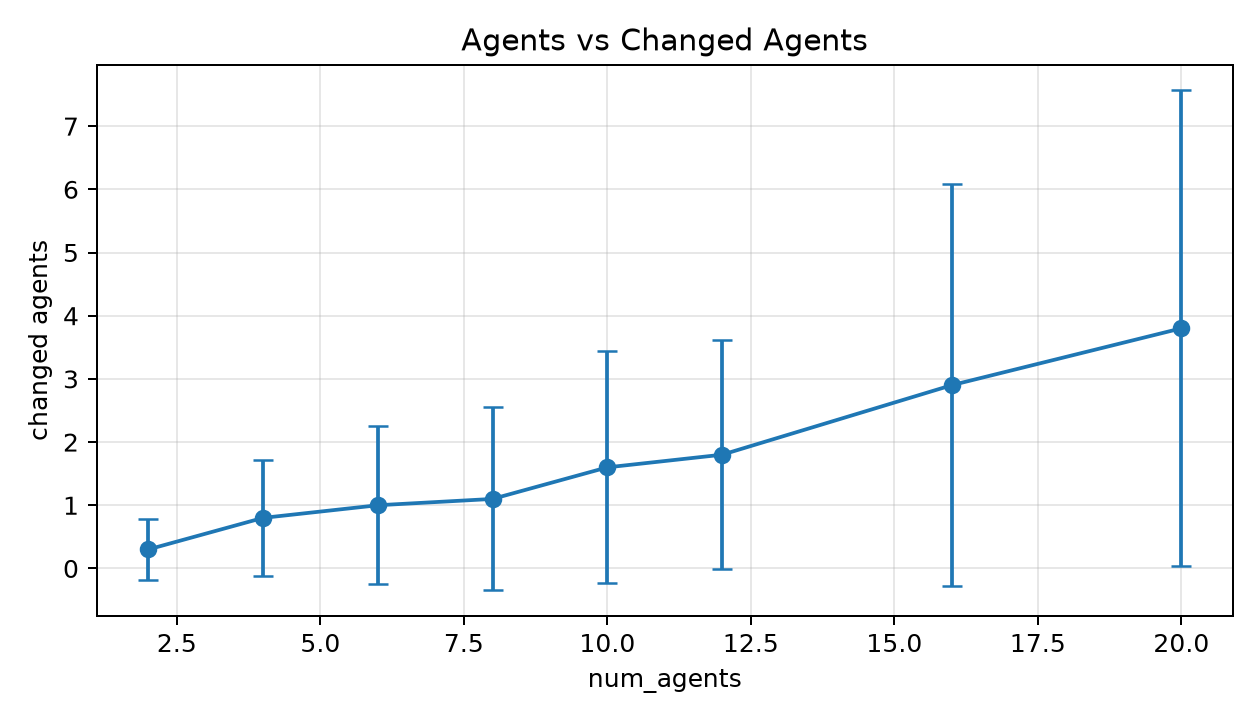
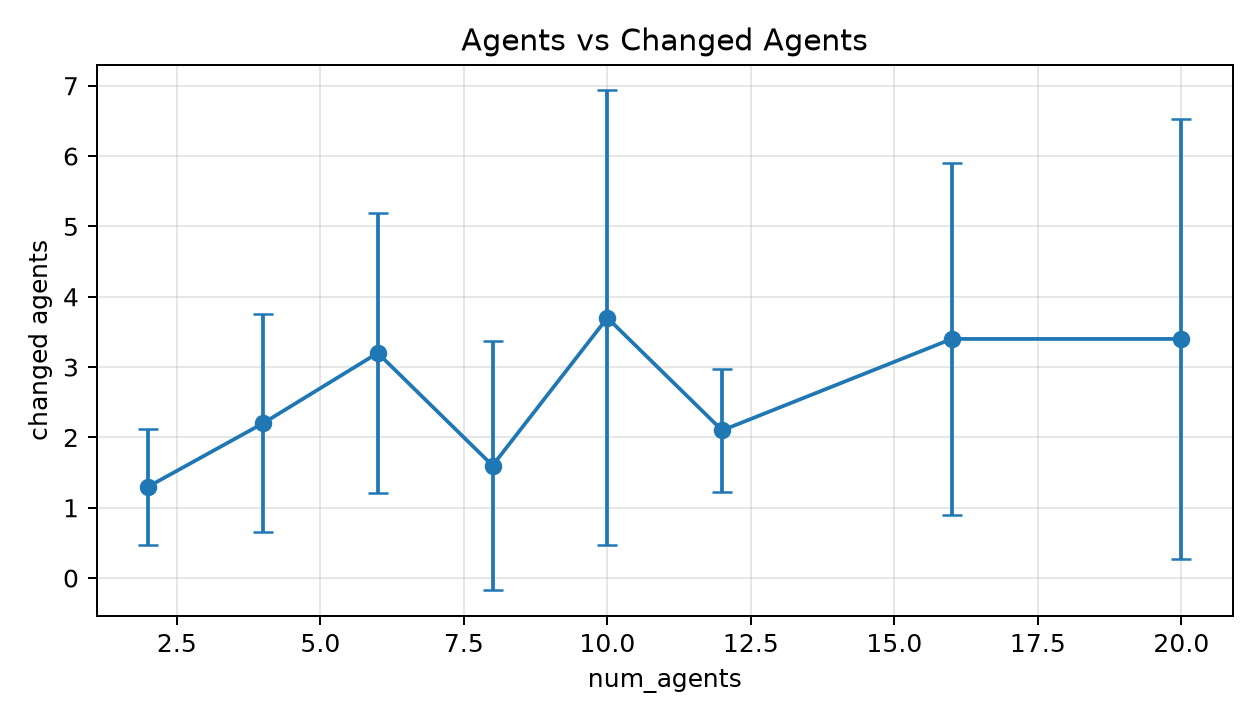
dynamic obstacles enables

diff --git a/experiments/common.py b/experiments/common.py
@@ -28,12 +28,16 @@ def default_events(seed: int, num_agents: int):
 def run_batch(configs: Iterable[Dict], repair_strategy: str = "local") -> pd.DataFrame:
     rows: List[Dict] = []
     for cfg in configs:
-        sim = WarehouseSimulator(SimulationConfig(**cfg))
-        m = sim.run(disruptions=default_events(cfg["seed"], cfg["num_agents"]), repair_strategy=repair_strategy)
+        c = dict(cfg)
+        enable_dyn = c.get("dynamic_obstacle_density", 0.0) > 0
+        if enable_dyn and c.get("dynamic_refresh_period", 0) == 0:
+            c["dynamic_refresh_period"] = 15
+        sim = WarehouseSimulator(SimulationConfig(**c))
+        m = sim.run(disruptions=default_events(c["seed"], c["num_agents"]), repair_strategy=repair_strategy, enable_dynamic_updates=enable_dyn)
         rows.append({
-            "seed": cfg["seed"],
-            "num_agents": cfg["num_agents"],
-            "dynamic_obstacle_density": cfg["dynamic_obstacle_density"],
+            "seed": c["seed"],
+            "num_agents": c["num_agents"],
+            "dynamic_obstacle_density": c["dynamic_obstacle_density"],
             "repair_strategy": repair_strategy,
             "success": int(m.success),
             "total_time": m.total_time,
